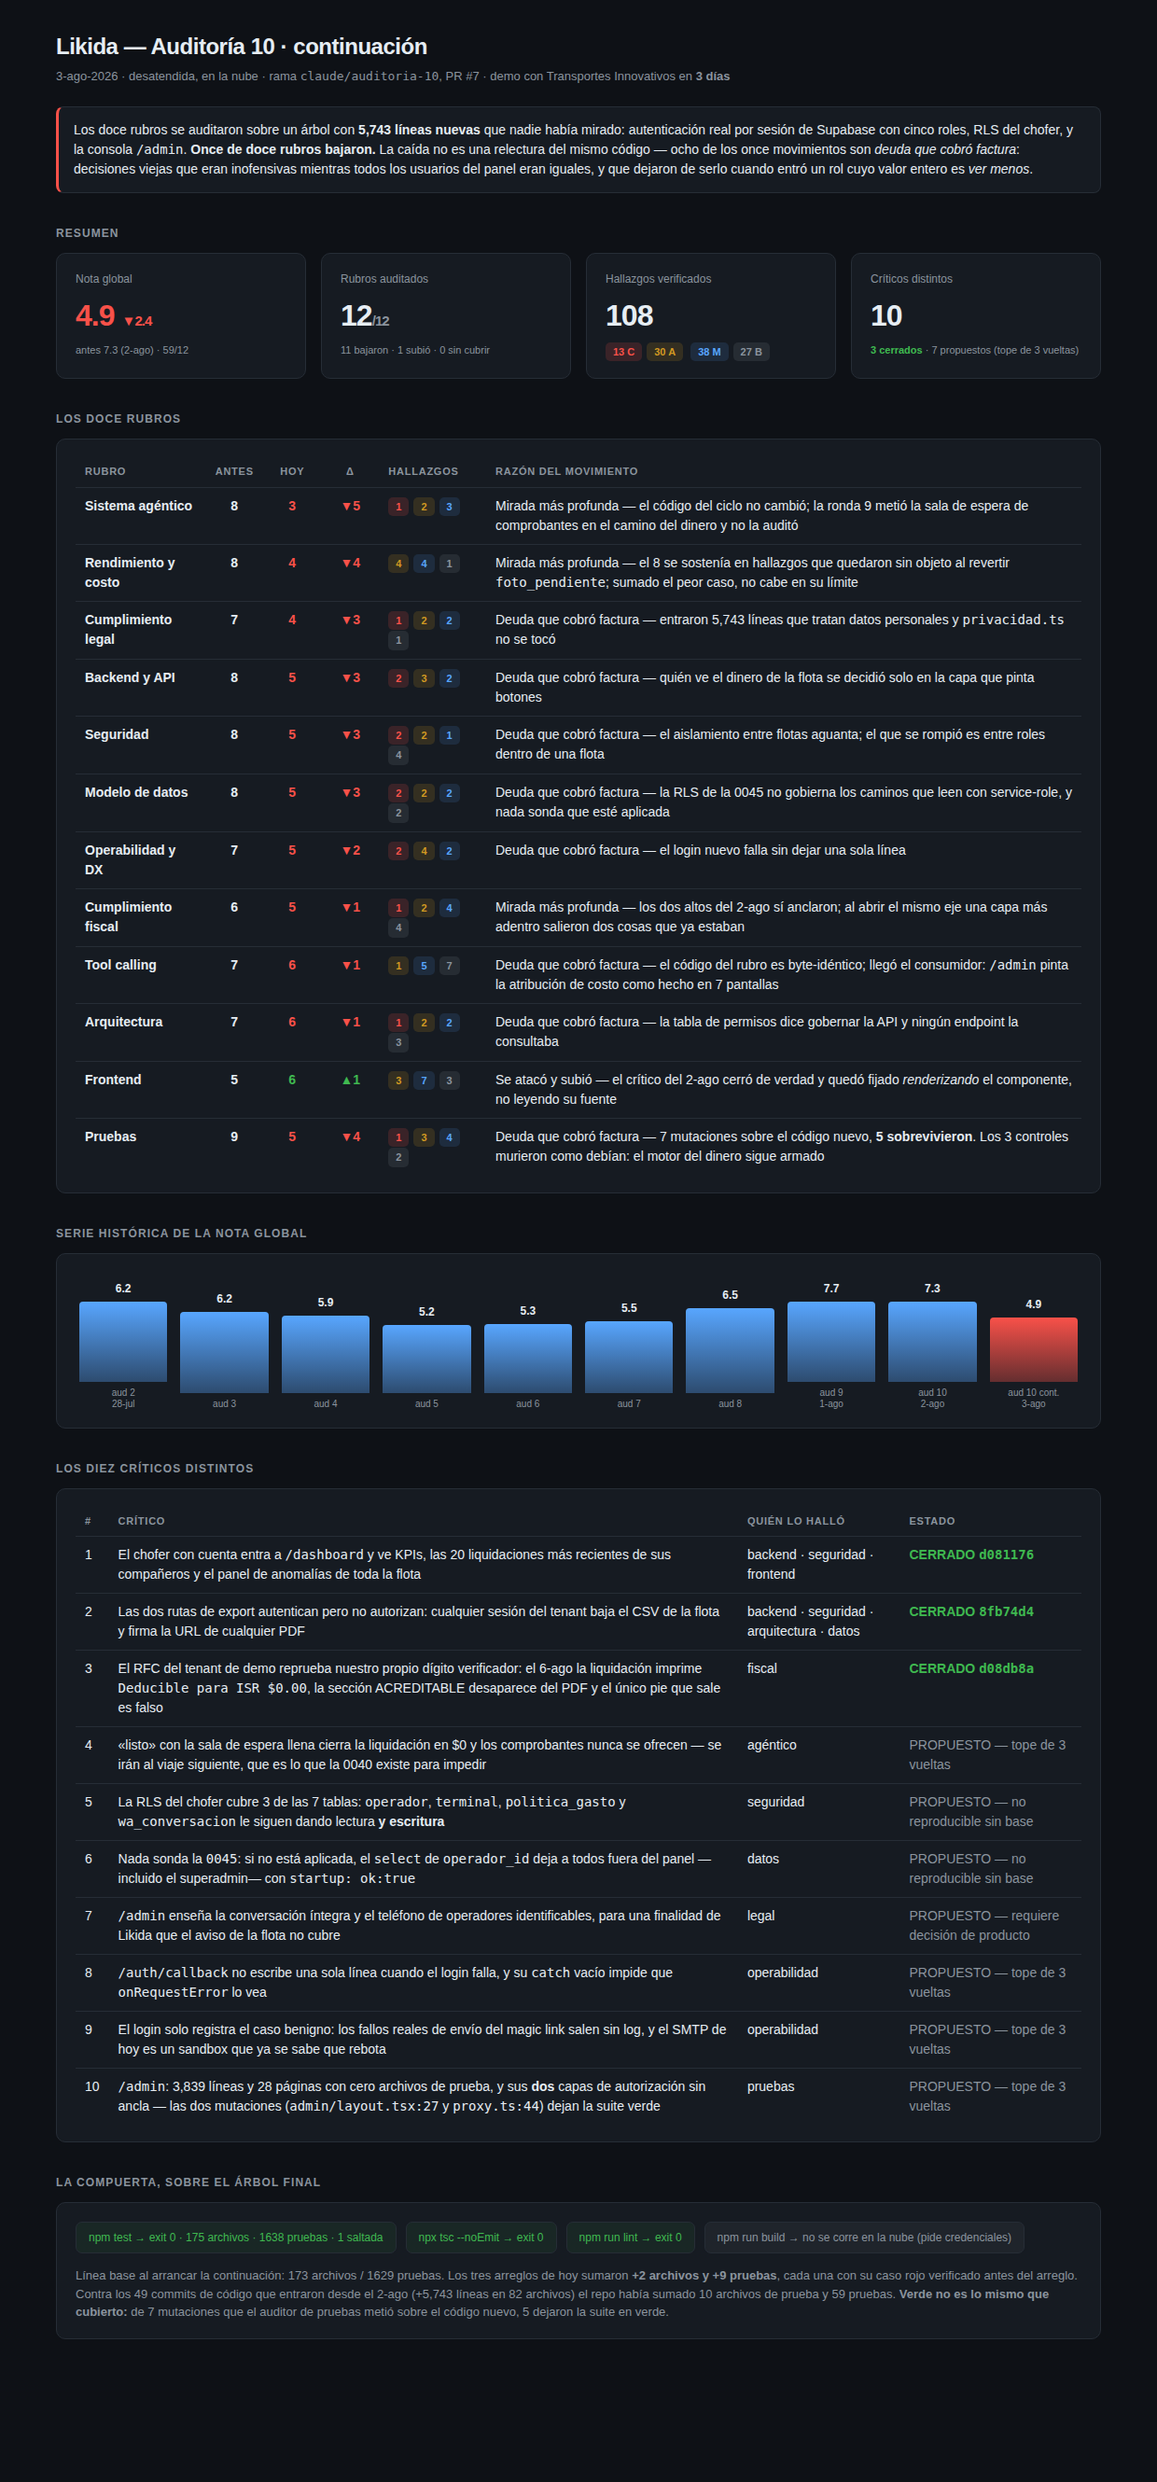
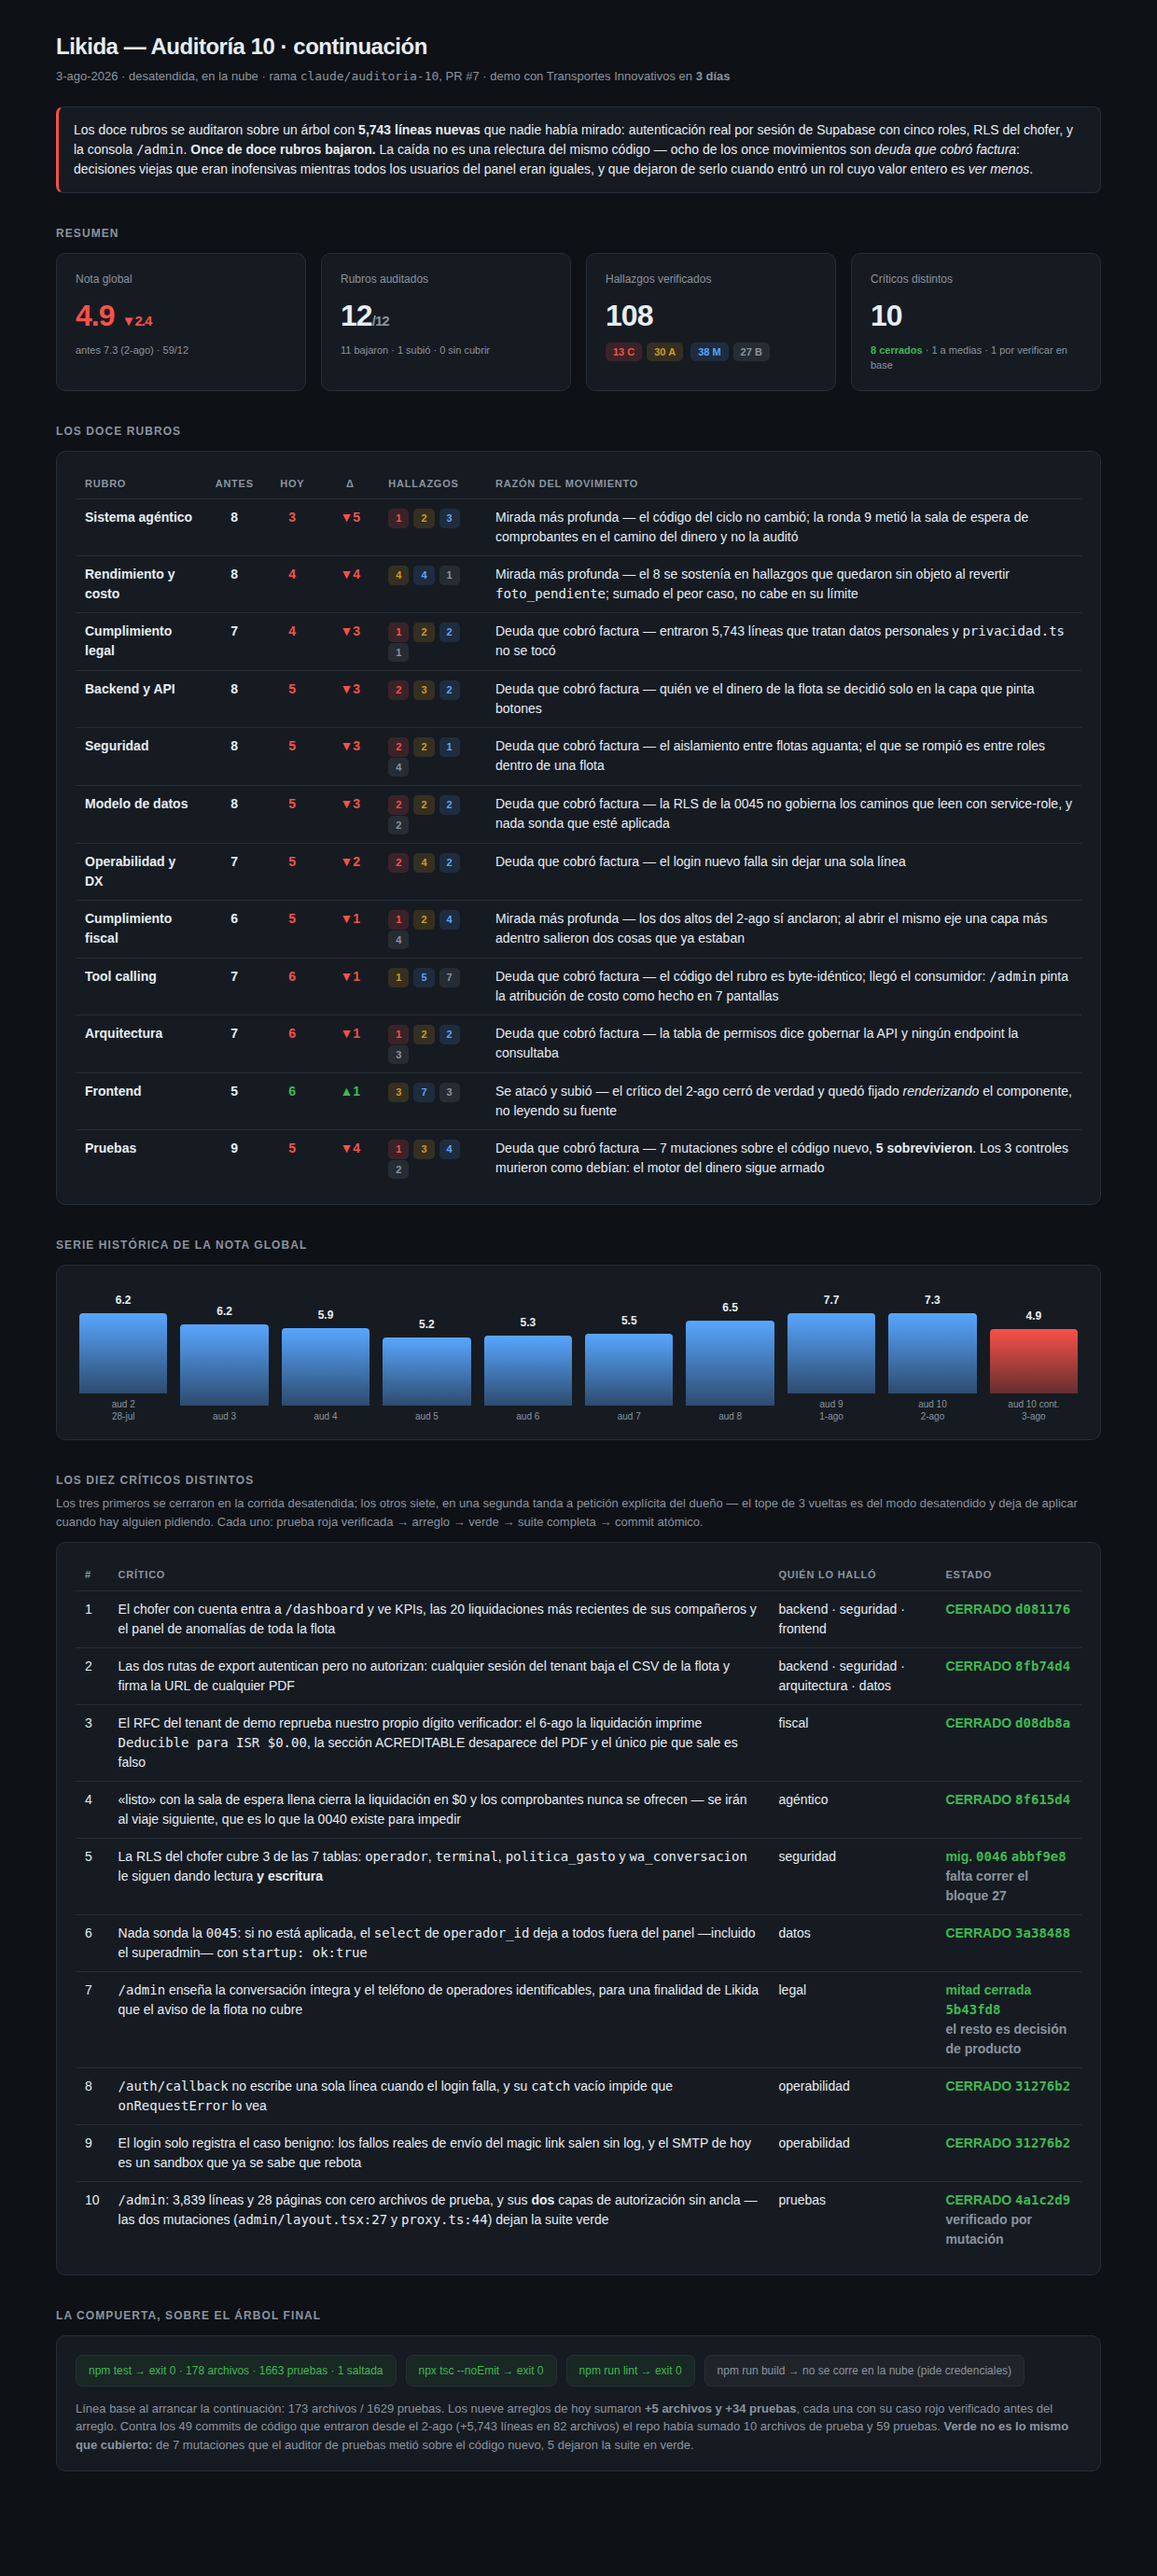
Auditoría 10 · adenda: los 7 críticos restantes atacados, 8 de 10 cerrados
Segunda tanda a petición del dueño. Tablero, síntesis, resultado y diario
actualizados con el estado real de cada crítico y con lo que sigue abierto:
30 altos, el bloque 27 sin correr, y la mitad legal que es decisión de
producto. Las notas de los 12 rubros NO se movieron.

Claude-Session: https://claude.ai/code/session_0163iRddXqcbiGp3RrgvQL4Z

diff --git a/docs/auditoria-10/tablero.html b/docs/auditoria-10/tablero.html
@@ -96,7 +96,7 @@
     <div class="card kpi">
       <div class="lbl">Críticos distintos</div>
       <div class="val">10</div>
-      <div class="note"><span class="fixed">3 cerrados</span> · 7 propuestos (tope de 3 vueltas)</div>
+      <div class="note"><span class="fixed">8 cerrados</span> · 1 a medias · 1 por verificar en base</div>
     </div>
   </div>
 
@@ -167,6 +167,12 @@
   </div>
 
   <h2>Los diez críticos distintos</h2>
+  <p class="sub" style="margin:-6px 0 12px">
+    Los tres primeros se cerraron en la corrida desatendida; los otros siete, en una segunda
+    tanda a petición explícita del dueño — el tope de 3 vueltas es del modo desatendido y deja
+    de aplicar cuando hay alguien pidiendo. Cada uno: prueba roja verificada → arreglo → verde →
+    suite completa → commit atómico.
+  </p>
   <div class="card scroll">
     <table>
       <thead><tr><th>#</th><th>Crítico</th><th>Quién lo halló</th><th>Estado</th></tr></thead>
@@ -178,19 +184,19 @@
         <tr><td>3</td><td>El RFC del tenant de demo reprueba nuestro propio dígito verificador: el 6-ago la liquidación imprime <code>Deducible para ISR $0.00</code>, la sección ACREDITABLE desaparece del PDF y el único pie que sale es falso</td>
             <td>fiscal</td><td class="fixed">CERRADO <code>d08db8a</code></td></tr>
         <tr><td>4</td><td>«listo» con la sala de espera llena cierra la liquidación en $0 y los comprobantes nunca se ofrecen — se irán al viaje siguiente, que es lo que la 0040 existe para impedir</td>
-            <td>agéntico</td><td class="prop">PROPUESTO — tope de 3 vueltas</td></tr>
+            <td>agéntico</td><td class="fixed">CERRADO <code>8f615d4</code></td></tr>
         <tr><td>5</td><td>La RLS del chofer cubre 3 de las 7 tablas: <code>operador</code>, <code>terminal</code>, <code>politica_gasto</code> y <code>wa_conversacion</code> le siguen dando lectura <strong>y escritura</strong></td>
-            <td>seguridad</td><td class="prop">PROPUESTO — no reproducible sin base</td></tr>
+            <td>seguridad</td><td class="fixed">mig. <code>0046</code> <code>abbf9e8</code><br><span class="prop">falta correr el bloque 27</span></td></tr>
         <tr><td>6</td><td>Nada sonda la <code>0045</code>: si no está aplicada, el <code>select</code> de <code>operador_id</code> deja a todos fuera del panel —incluido el superadmin— con <code>startup: ok:true</code></td>
-            <td>datos</td><td class="prop">PROPUESTO — no reproducible sin base</td></tr>
+            <td>datos</td><td class="fixed">CERRADO <code>3a38488</code></td></tr>
         <tr><td>7</td><td><code>/admin</code> enseña la conversación íntegra y el teléfono de operadores identificables, para una finalidad de Likida que el aviso de la flota no cubre</td>
-            <td>legal</td><td class="prop">PROPUESTO — requiere decisión de producto</td></tr>
+            <td>legal</td><td class="fixed">mitad cerrada <code>5b43fd8</code><br><span class="prop">el resto es decisión de producto</span></td></tr>
         <tr><td>8</td><td><code>/auth/callback</code> no escribe una sola línea cuando el login falla, y su <code>catch</code> vacío impide que <code>onRequestError</code> lo vea</td>
-            <td>operabilidad</td><td class="prop">PROPUESTO — tope de 3 vueltas</td></tr>
+            <td>operabilidad</td><td class="fixed">CERRADO <code>31276b2</code></td></tr>
         <tr><td>9</td><td>El login solo registra el caso benigno: los fallos reales de envío del magic link salen sin log, y el SMTP de hoy es un sandbox que ya se sabe que rebota</td>
-            <td>operabilidad</td><td class="prop">PROPUESTO — tope de 3 vueltas</td></tr>
+            <td>operabilidad</td><td class="fixed">CERRADO <code>31276b2</code></td></tr>
         <tr><td>10</td><td><code>/admin</code>: 3,839 líneas y 28 páginas con cero archivos de prueba, y sus <strong>dos</strong> capas de autorización sin ancla — las dos mutaciones (<code>admin/layout.tsx:27</code> y <code>proxy.ts:44</code>) dejan la suite verde</td>
-            <td>pruebas</td><td class="prop">PROPUESTO — tope de 3 vueltas</td></tr>
+            <td>pruebas</td><td class="fixed">CERRADO <code>4a1c2d9</code><br><span class="prop">verificado por mutación</span></td></tr>
       </tbody>
     </table>
   </div>
@@ -198,14 +204,14 @@
   <h2>La compuerta, sobre el árbol final</h2>
   <div class="card">
     <div class="gate">
-      <span class="g">npm test → exit 0 · 175 archivos · 1638 pruebas · 1 saltada</span>
+      <span class="g">npm test → exit 0 · 178 archivos · 1663 pruebas · 1 saltada</span>
       <span class="g">npx tsc --noEmit → exit 0</span>
       <span class="g">npm run lint → exit 0</span>
       <span class="g off">npm run build → no se corre en la nube (pide credenciales)</span>
     </div>
     <p class="sub" style="margin:14px 0 0">
-      Línea base al arrancar la continuación: 173 archivos / 1629 pruebas. Los tres arreglos de
-      hoy sumaron <strong>+2 archivos y +9 pruebas</strong>, cada una con su caso rojo verificado
+      Línea base al arrancar la continuación: 173 archivos / 1629 pruebas. Los nueve arreglos de
+      hoy sumaron <strong>+5 archivos y +34 pruebas</strong>, cada una con su caso rojo verificado
       antes del arreglo. Contra los 49 commits de código que entraron desde el 2-ago
       (+5,743 líneas en 82 archivos) el repo había sumado 10 archivos de prueba y 59 pruebas.
       <strong>Verde no es lo mismo que cubierto:</strong> de 7 mutaciones que el auditor de

diff --git a/docs/auditoria-10/progreso.md b/docs/auditoria-10/progreso.md
@@ -161,3 +161,65 @@ misma rama, sin abrir PR nuevo.
 
 **TOPE DE 3 VUELTAS AGOTADO.** Lo demás queda propuesto, incluidos 4 críticos
 verificados que no se arreglaron: se listan en la síntesis con su razón.
+
+---
+
+# SEGUNDA TANDA DE ARREGLOS — 3-ago-2026, a petición explícita del dueño
+
+El tope de 3 vueltas es del modo desatendido; con el dueño pidiendo
+«corrige todo», deja de aplicar. Se atacaron los 7 críticos que habían quedado
+propuestos, en orden de daño, con el mismo rigor: prueba roja verificada →
+arreglo → verde → suite completa → commit atómico.
+
+- **`8f615d4`** — CRÍTICO #4 (agéntico). «listo» con la sala de espera llena
+  cerraba en $0. La prueba que fijaba el comportamiento anterior se **reescribió,
+  no se borró**: documenta cuál era la premisa («perder la oferta este turno no
+  cuesta nada») y por qué es falsa justo en el turno de cierre, el único sin
+  turno siguiente.
+- **`31276b2`** — CRÍTICOS #8 y #9 (operabilidad). `/auth/callback` era mudo en
+  sus tres caminos de fallo (incluido un `catch` vacío que además le tapaba los
+  ojos a `onRequestError`); `/login` solo registraba el caso benigno. La prueba
+  del callback EJECUTA el handler y lleva control. La de `/login` lee el fuente
+  y **dice por escrito que ese idioma es débil** y por qué no se cambió aquí.
+- **`4a1c2d9`** — CRÍTICO #10 (pruebas). Las dos capas de autorización de
+  `/admin` quedaron ancladas. **Verificado por mutación**, que es lo que el
+  hallazgo exigía: quitar `/admin` del matcher tira 2 pruebas; quitar
+  `requireSuperadmin()` tira otras 2. Ambas mutaciones revertidas.
+- **`3a38488`** — CRÍTICO #6 (datos). El arranque ya sonda la 0045, y
+  `getSessionTenant` distingue «columna ausente» de cualquier otro fallo: grita
+  y degrada, en vez de dejar a todos —incluido el superadmin— fuera del panel.
+- **`abbf9e8`** — CRÍTICO #5 (seguridad). Migración **0046**: la RLS del chofer
+  pasa de 3 a 7 tablas. El arnés comprueba una propiedad ESTRUCTURAL sobre el
+  SQL y **no ejerce ninguna policy** — aquí no hay base. Eso lo hace el bloque
+  27 nuevo de `verificaciones.sql`, que hay que correr. Hasta entonces la 0046
+  es plausible, no verificada, y su propia cabecera lo dice.
+- **`5b43fd8`** — CRÍTICO #7 (legal), **mitad**. `/admin` deja de identificar al
+  operador: seudónimo estable en vez del teléfono y texto redactado con el mismo
+  redactor de Sentry. Cierra lo que el aviso ya prohíbe («sin identificarte en
+  los reportes»). **Lo que NO se tocó**: si Likida debe ver transcripciones para
+  una finalidad propia siendo persona encargada. Eso es decisión de producto y
+  de aviso.
+
+## Estado de los diez críticos
+
+| # | Rubro | Estado |
+|:-:|---|---|
+| 1 | backend · seguridad · frontend | CERRADO `d081176` |
+| 2 | backend · seguridad · arquitectura · datos | CERRADO `8fb74d4` |
+| 3 | fiscal | CERRADO `d08db8a` |
+| 4 | agéntico | CERRADO `8f615d4` |
+| 5 | seguridad | Migración escrita `abbf9e8` · **falta correr el bloque 27 contra la base** |
+| 6 | datos | CERRADO `3a38488` |
+| 7 | legal | Mitad cerrada `5b43fd8` · **la otra mitad es decisión de producto** |
+| 8 | operabilidad | CERRADO `31276b2` |
+| 9 | operabilidad | CERRADO `31276b2` |
+| 10 | pruebas | CERRADO `4a1c2d9`, verificado por mutación |
+
+## Lo que sigue abierto
+
+**30 ALTOS, 38 MEDIOS y 27 BAJOS**, ninguno tocado en esta tanda. Y las notas
+de los doce rubros **no se movieron**: las puso cada auditor con contexto
+fresco antes de los arreglos, y subirlas porque el orquestador arregló cosas es
+exactamente el movimiento que esta rutina existe para impedir. Quien las mueve
+es la ronda 11, con auditores nuevos que no sepan dónde se acaba de tocar
+código.

diff --git a/docs/auditoria-10/00-SINTESIS.md b/docs/auditoria-10/00-SINTESIS.md
@@ -261,3 +261,49 @@ compuerta cotejadas con la corrida real.
    `pdf_un_solo_nombre.test.ts` — ninguno existe en el árbol de hoy). Sigue
    requiriendo decisión humana: su diff borraría migraciones y pruebas que sí
    están en `master`.
+
+---
+
+## Adenda — segunda tanda de arreglos (3-ago, a petición del dueño)
+
+El tope de 3 vueltas es una regla del modo desatendido: existe para que una
+corrida sin nadie mirando no se quede puliendo hallazgos hasta agotar el
+presupuesto. Con el dueño pidiendo «corrige todo», deja de aplicar. Se
+atacaron los siete críticos restantes con el mismo rigor —prueba roja
+verificada, arreglo, verde, suite completa, commit atómico—, y el estado final
+de los diez es:
+
+| # | Rubro | Estado |
+|:-:|---|---|
+| 1 | backend · seguridad · frontend | CERRADO `d081176` |
+| 2 | backend · seguridad · arquitectura · datos | CERRADO `8fb74d4` |
+| 3 | fiscal | CERRADO `d08db8a` |
+| 4 | agéntico | CERRADO `8f615d4` |
+| 5 | seguridad | mig. `0046` escrita `abbf9e8` · **sin verificar contra base** |
+| 6 | datos | CERRADO `3a38488` |
+| 7 | legal | mitad cerrada `5b43fd8` · **el resto es decisión de producto** |
+| 8 | operabilidad | CERRADO `31276b2` |
+| 9 | operabilidad | CERRADO `31276b2` |
+| 10 | pruebas | CERRADO `4a1c2d9`, verificado por mutación |
+
+Compuerta final: **178 archivos / 1663 pruebas / 1 saltada, exit 0** · tsc 0 ·
+lint 0. Los nueve arreglos del día sumaron +5 archivos y +34 pruebas.
+
+### Las notas siguen donde las dejaron los auditores, y no es un descuido
+
+Nadie recalifica un rubro porque el orquestador arregló cosas en él. Las doce
+notas las pusieron auditores con contexto fresco **antes** de tocar código;
+subirlas ahora sería exactamente el movimiento que esta rutina existe para
+impedir, y el que la síntesis de la ronda 9 se reprochó a sí misma. Quien las
+mueve es la ronda 11, con auditores que no sepan dónde se acaba de arreglar.
+
+### Lo que falta para que la nota suba de verdad
+
+- **30 ALTOS, 38 MEDIOS y 27 BAJOS** sin tocar.
+- **Correr el bloque 27** de `verificaciones.sql` contra la base: hasta
+  entonces la 0046 es plausible, no verificada.
+- **Decidir la mitad legal** del crítico 7.
+- Y el techo estructural: la escala reserva 9–10 para «un experto externo del
+  rubro no encontraría nada material». Con 30 altos abiertos y `npm run build`
+  sin correr nunca en este entorno, ningún rubro puede honestamente llegar ahí
+  hoy.

diff --git a/docs/auditoria-10/RESULTADO.md b/docs/auditoria-10/RESULTADO.md
@@ -14,14 +14,31 @@ Cerrados con arreglo, prueba que los reproduce y verificación en rojo antes:
 - d08db8a · el RFC del tenant de demo reprobaba nuestro propio validador y
   apagaba TODAS las cifras fiscales del PDF del 6-ago
 
-Quedan 7 críticos PROPUESTOS, todos verificados contra el código: se agotó el
-tope de 3 vueltas de arreglo. Dos de ellos (RLS parcial de la 0045, y que nada
-sonde que la 0045 esté aplicada) no son reproducibles sin base de datos y no se
-tocaron a ciegas a propósito.
+SEGUNDA TANDA, a petición explícita del dueño («corrige todo»): el tope de 3
+vueltas es del modo desatendido y deja de aplicar. Se atacaron los 7 críticos
+restantes con el mismo rigor.
+- 8f615d4 · «listo» con la sala de espera llena cerraba la liquidación en $0
+- 31276b2 · /auth/callback y el envío del magic link fallaban sin dejar un log
+- 4a1c2d9 · las dos capas de autorización de /admin, ancladas y verificadas POR
+  MUTACIÓN (quitar cada una tira 2 pruebas)
+- 3a38488 · el arranque sonda la 0045 y su ausencia ya no echa a todos del panel
+- abbf9e8 · migración 0046: la RLS del chofer pasa de 3 a 7 tablas
+- 5b43fd8 · /admin deja de identificar al operador (seudónimo + texto redactado)
 
-Compuerta verde sobre el árbol final: vitest 175 archivos / 1638 pruebas / 1
+DE LOS 10 CRÍTICOS: 8 cerrados, 1 con migración escrita pero SIN VERIFICAR
+contra una base (hay que correr el bloque 27 de verificaciones.sql), y 1 (legal)
+cerrado a la mitad — si Likida debe ver transcripciones para finalidad propia es
+decisión de producto y de aviso, no un arreglo.
+
+SIGUEN ABIERTOS 30 ALTOS, 38 MEDIOS y 27 BAJOS, ninguno tocado.
+
+Compuerta verde sobre el árbol final: vitest 178 archivos / 1663 pruebas / 1
 saltada / exit 0 · tsc exit 0 · lint exit 0. Sin `npm run build` (nube).
 Tablero capturado y mirado.
+
+LAS NOTAS NO SE MOVIERON por estos arreglos, a propósito: las puso cada auditor
+con contexto fresco ANTES de tocar código. Quien las mueve es la ronda 11, con
+auditores que no sepan dónde se acaba de arreglar.
 
 REQUIERE DECISIÓN HUMANA: el crítico #4 (un «listo» con la sala de espera llena
 cierra la liquidación en $0 y manda los comprobantes al viaje siguiente) es el
